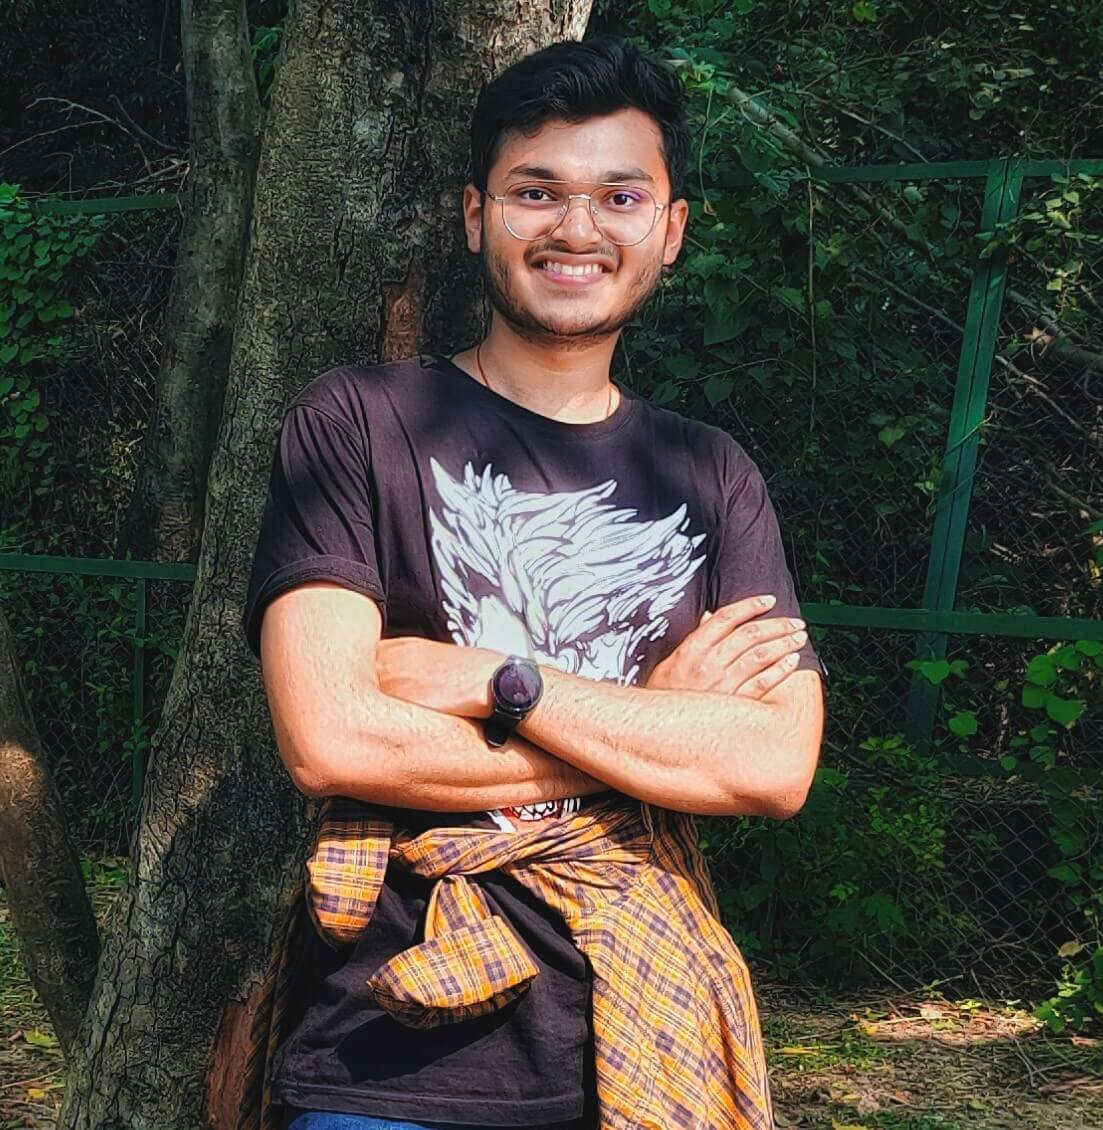
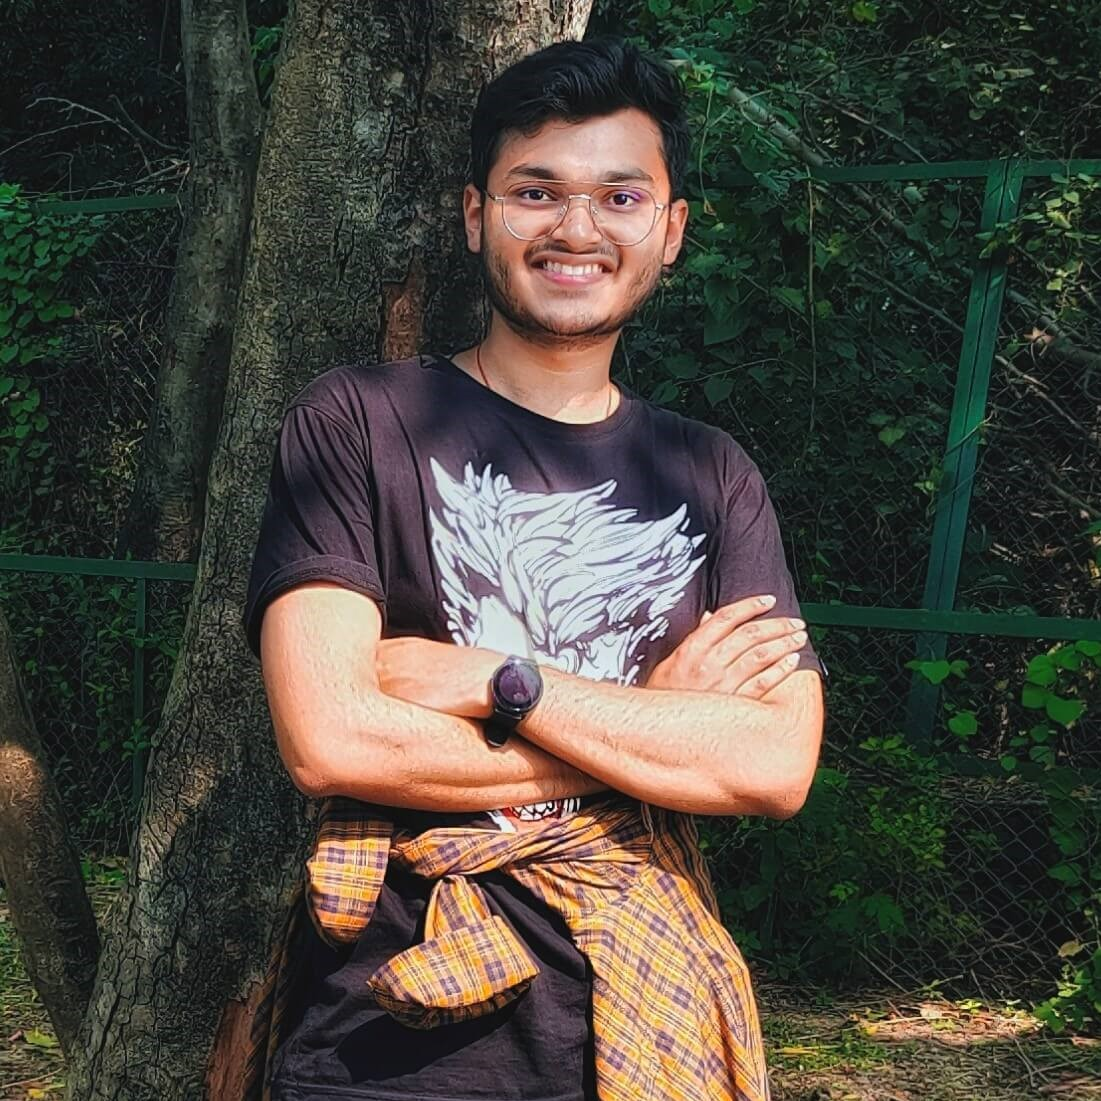
image resize bg changes

diff --git a/src/App.css b/src/App.css
@@ -10,7 +10,7 @@
     overflow-y: scroll;
 }
 .team__app::before{
-    position: absolute;
+    position: fixed;
     content: "";
     background: url("./teambg.png");
     background-position: center;
@@ -52,7 +52,7 @@
 .card__body-image{
     position: relative;
     overflow: hidden;
-    padding: 1rem;
+    padding: 0.25rem;
 }
 .card__body-name{
     width: 100%;
@@ -93,12 +93,6 @@
     right: 0;
     padding: 4rem 0;
     border-radius: 5px 5px 0 0;
-    /* background: linear-gradient(135deg, rgba(3,86,246,0.8) 0%, rgba(0,6,255,0.8) 42%, rgba(195,22,99,0.8) 100%); */
-    /* background-color: #559eed91; */
-    /* background-color: #4158D0;
-    background-image: linear-gradient(135deg, #4158D0 0%, #C850C0 46%, #FFCC70 100%); */
-    /* background-image: linear-gradient( 132.6deg,  rgba(71, 140, 214, 0.7) 23.3%, rgba(37,216,211,0.7) 84.7% ); */
-    /* background-image: linear-gradient( 135deg,  rgba(0,193,228,0.7) 11.2%, rgba(0,131,155,0.7) 74.7% ); */
     background-image: radial-gradient( circle farthest-corner at 10% 20%,  rgba(56,207,191,0.8) 0%, rgba(10,70,147,0.8) 90.2% );
 }
 .body__social-links img{

diff --git a/src/components/Card.jsx b/src/components/Card.jsx
@@ -7,7 +7,7 @@ const Card = ({ details }) => {
     return (
         <div className="team__card-container">
             <div className="card__body-image">
-                <img src={details.imageUrl} loading="lazy" height="150" width="150" alt={details.name} />
+                <img src={details.imageUrl} loading="lazy" height="170" width="170" alt={details.name} />
                 <div className="card__body-social">
                     <div className="body__social-links">
                         <div><a href={details.github} target="_blank" rel="noreferrer"><img src={githubIcon} height="25" width="25" alt="github" /></a></div>

diff --git a/src/config/particle-config.js b/src/config/particle-config.js
@@ -1,7 +1,7 @@
 const particlesConfig = {
     particles: {
         number: {
-            value: 6,
+            value: 8,
             density: {
                 enable: true,
                 value_area: 800
